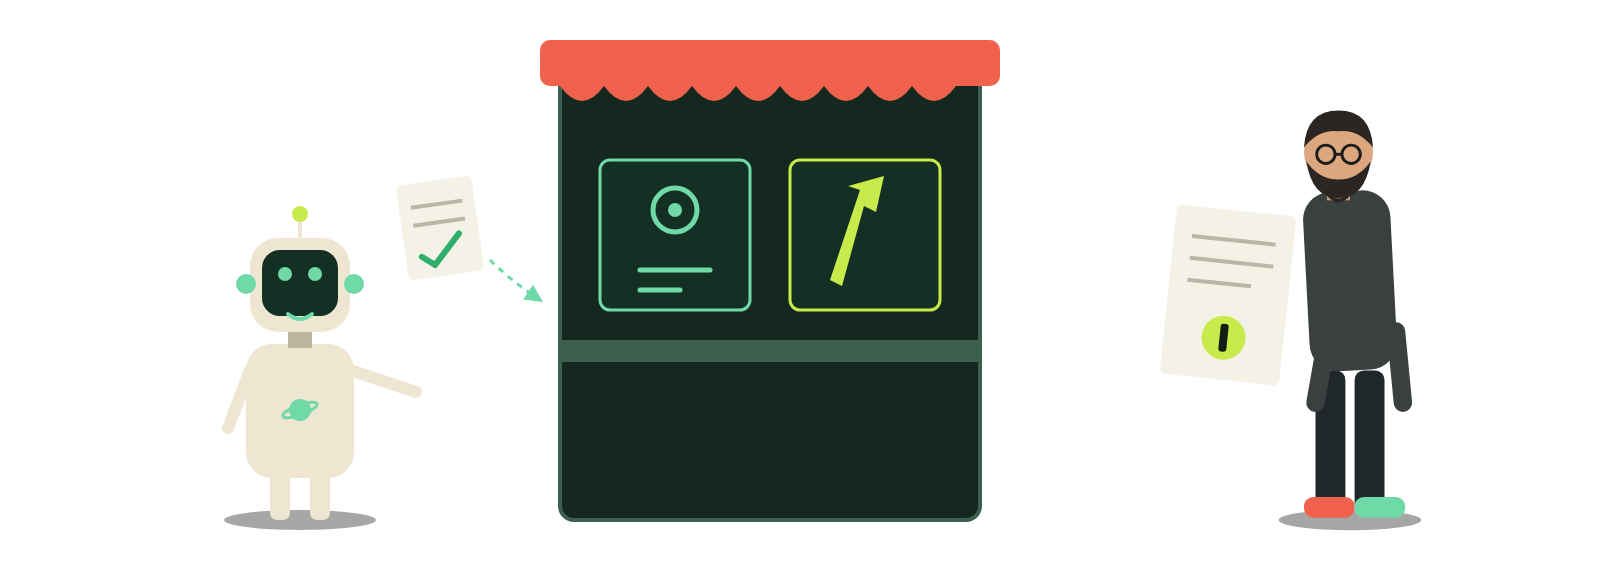
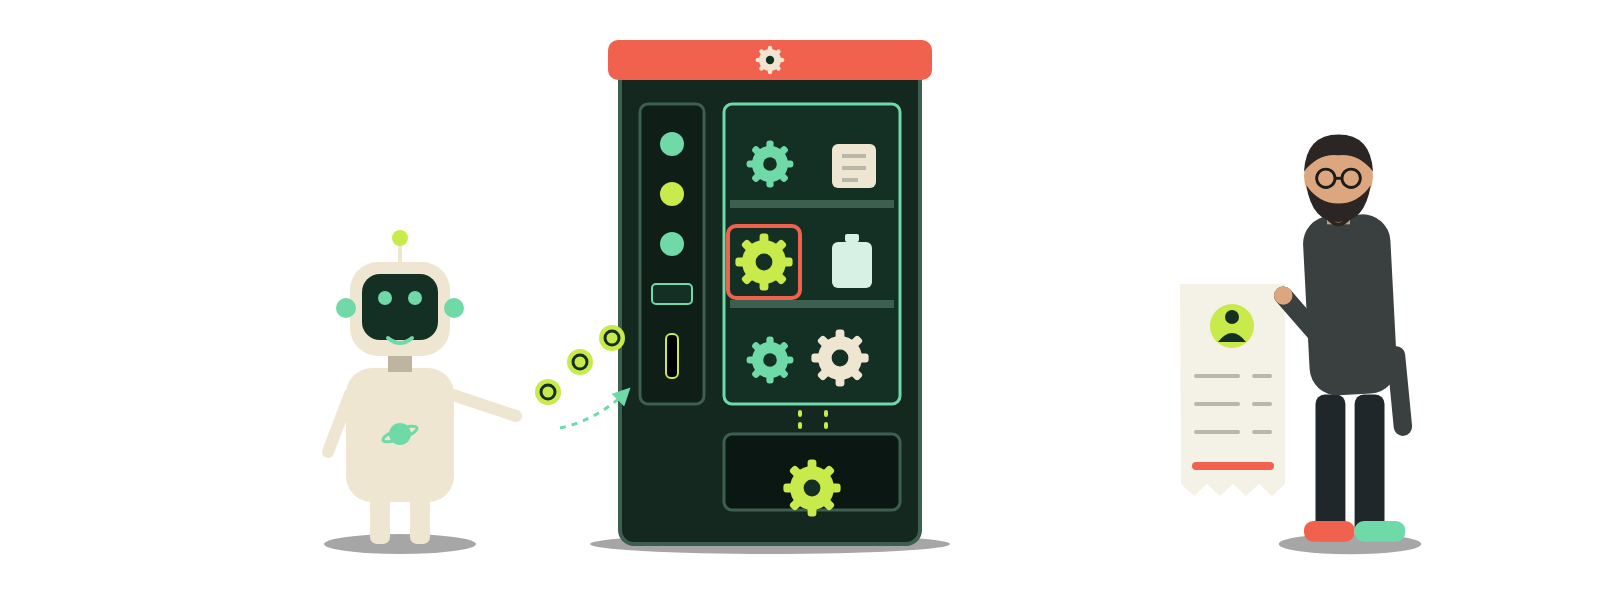
Part 1: new hero scene (AI orders tools from a vending machine, person holds the receipt)

diff --git a/7-and-a-half-floor/part-1-software-has-a-new-customer/index.html b/7-and-a-half-floor/part-1-software-has-a-new-customer/index.html
@@ -93,7 +93,7 @@
   <h1>Software Has a New Customer: AI<small>And Your Name Is Still on the Bill</small></h1>
   <p class="deck">For decades we built software for people clicking buttons. Now, AI is the operator—and the manager placing the order.</p>
   <p class="byline mono">By Markus van Kempen &middot; October 2026</p>
-  <img class="hero" src="../images/part-1-hero.png" alt="Cartoon: a robot places an order at a market stall while a person stands by holding the bill." width="1600" height="571">
+  <img class="hero" src="../images/part-1-hero.png" alt="Cartoon: a robot feeds coins into a tool vending machine and a gear drops out, while a person holds the long receipt with the total in red." width="1600" height="595">
   <article>
 <p>For most of my career, I built software for people. I designed it for the user clicking a button on a screen, and I organized it for the teammate who would have to maintain it next month. Both of them could ask questions, figure out what I meant, and notice when something looked weird.</p>
 <p>That is changing fast. Today, AI helps me write and test software. But it is also becoming the primary user of that software: its customer, its consumer, its daily operator.</p>
